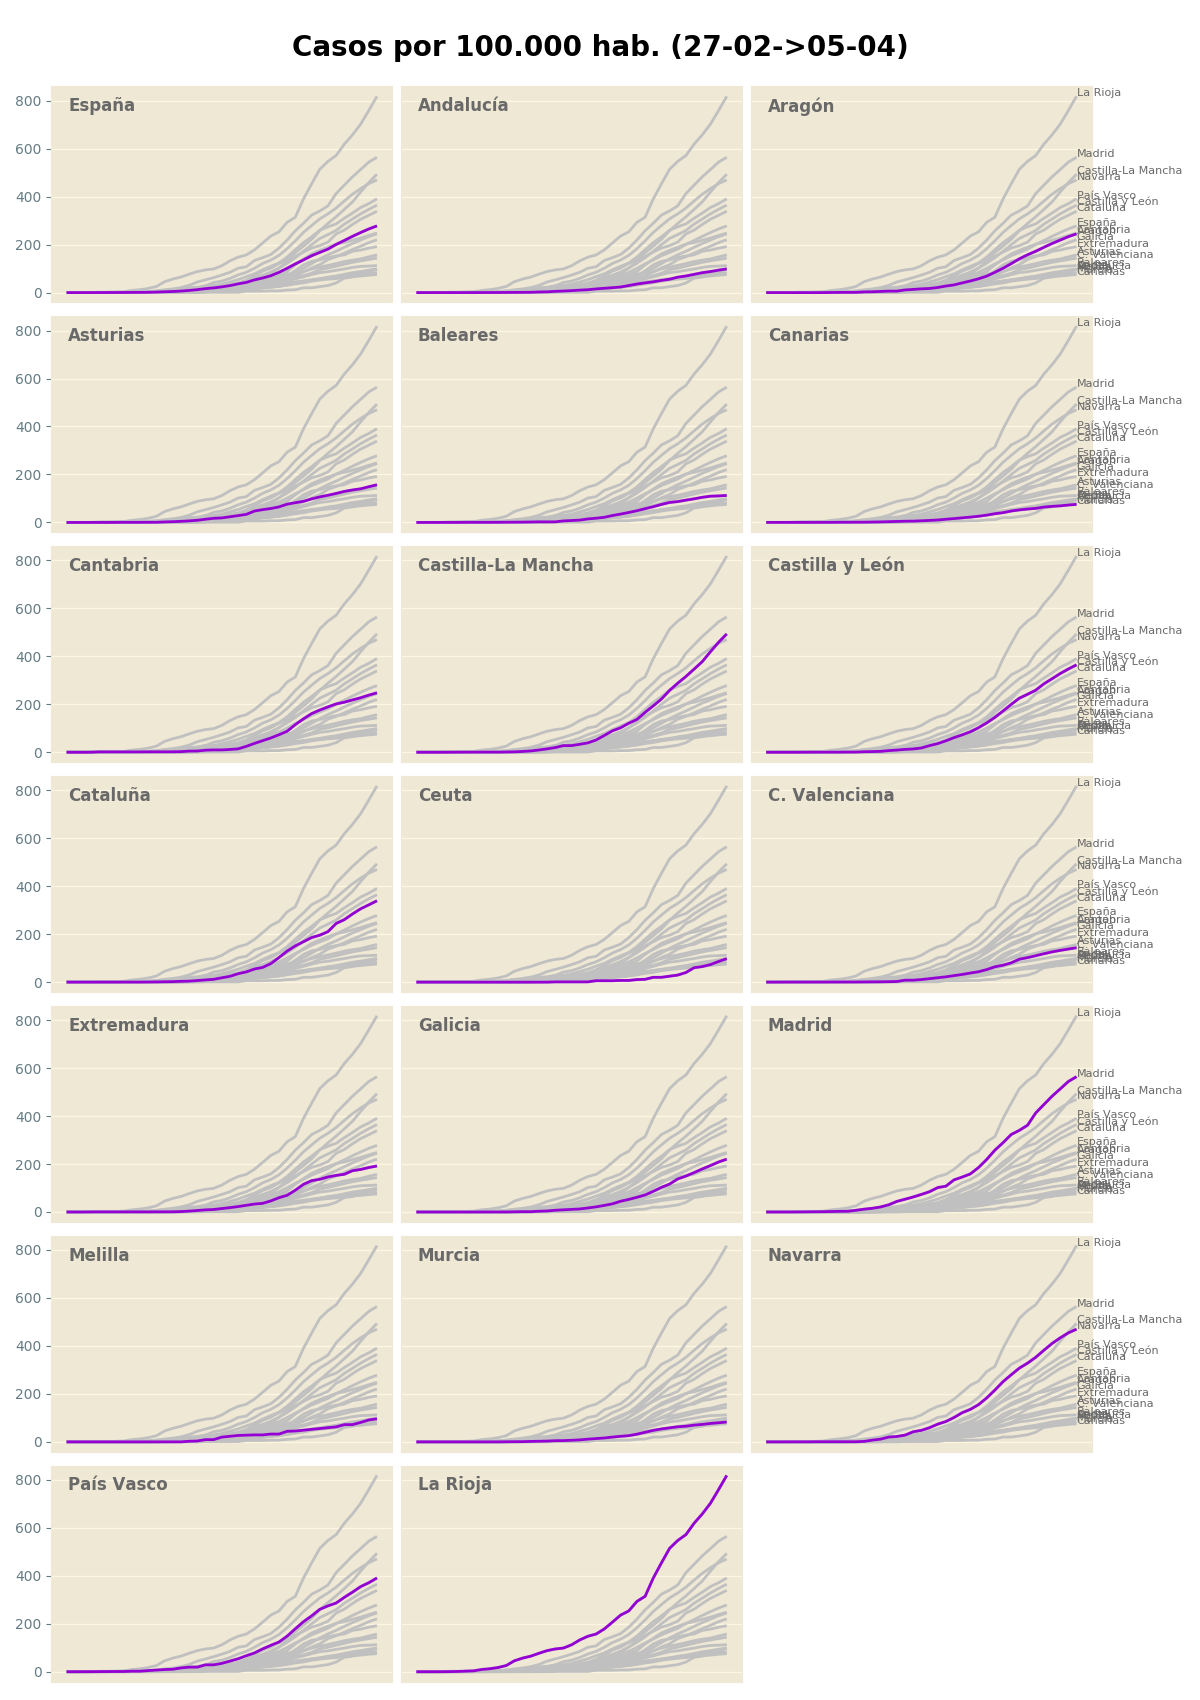
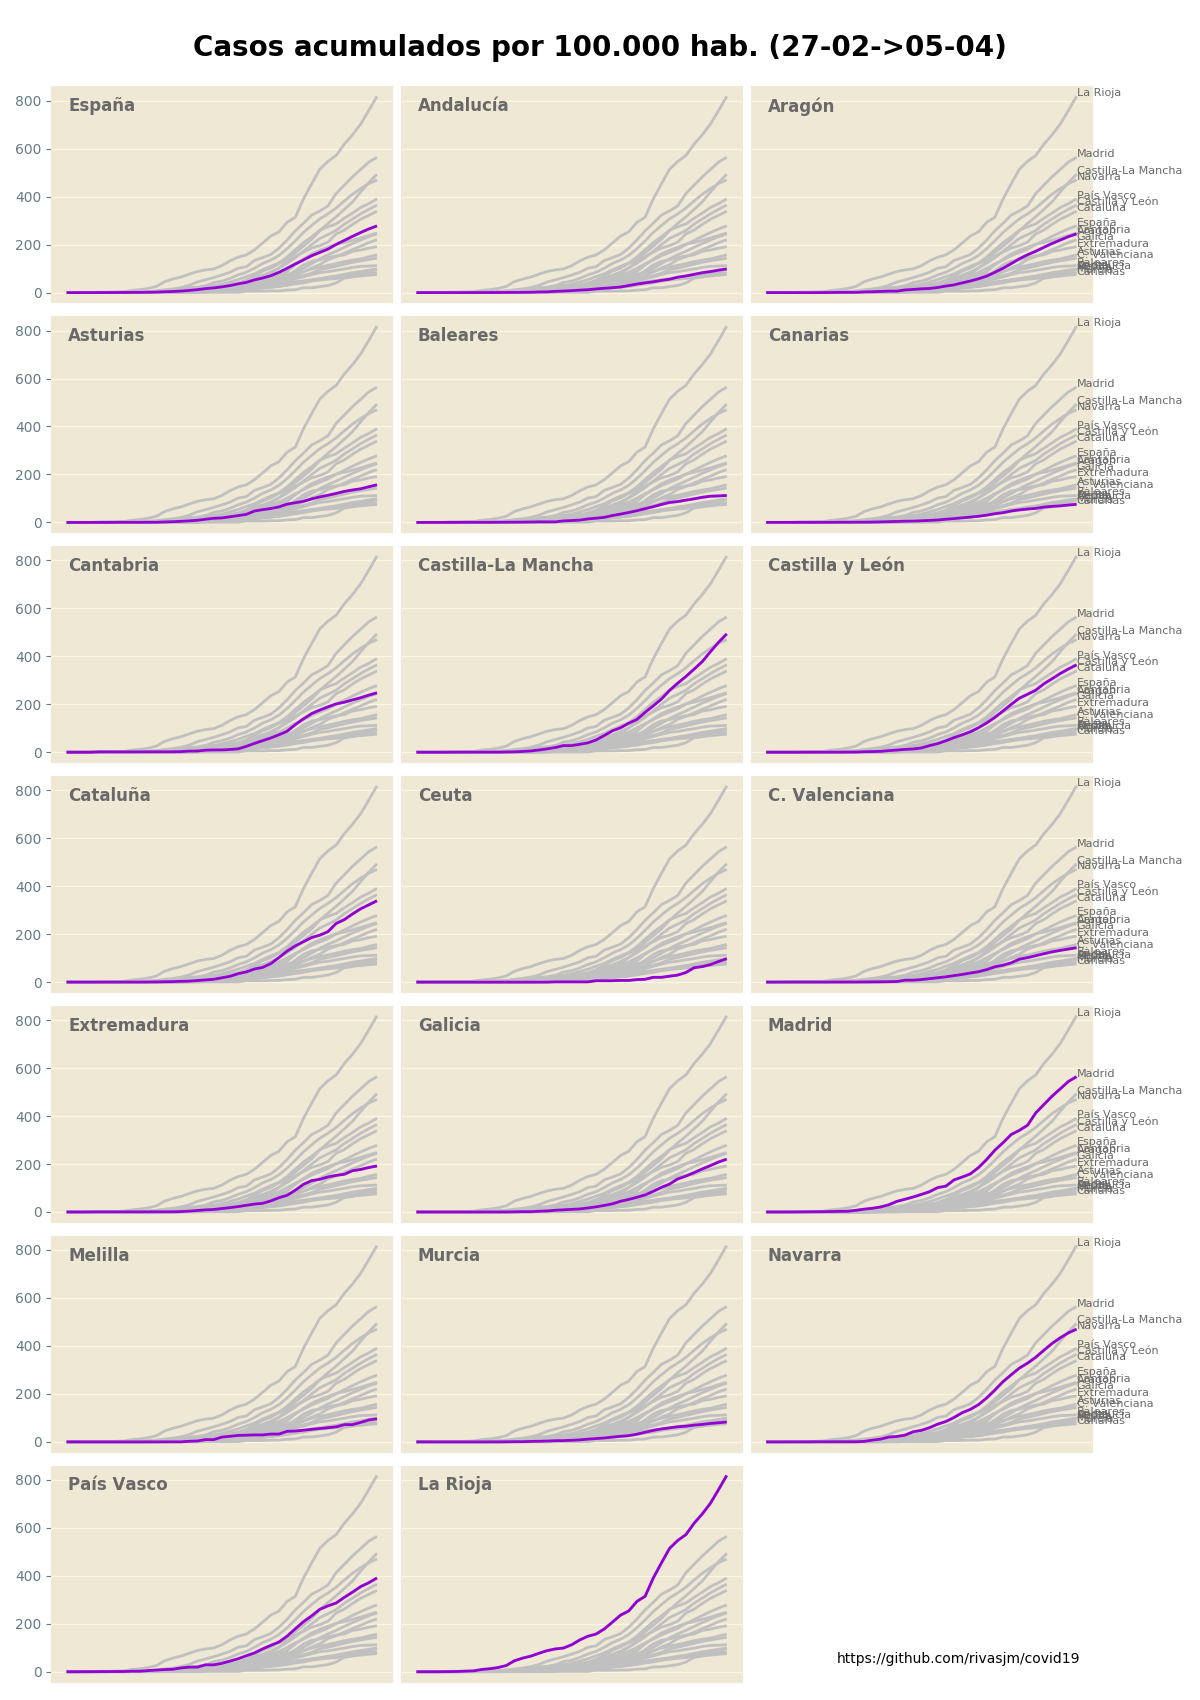
update

Changed region(s): [[0.1542, 0.0, 0.8325, 0.0312], [0.74, 0.9665, 0.7708, 0.9976]]

diff --git a/spain_charts.py b/spain_charts.py
@@ -52,10 +52,12 @@ def grid(data: Data, out_name, rows, cols,
             ax.set_yticklabels([])
             ax.tick_params(axis='y', which='both', length=0)  # hide just the ticks but not the horizontal grid
 
-    title = data.label + (' por 100.000 hab.' if per_capita else '') + (' (diario)' if incremental else '') + \
+    title = data.label + (' diarios' if incremental else ' acumulados') + (' por 100.000 hab.' if per_capita else '')  + \
             ' (' + dates[0] + '->' + dates[-1] + ')' + (' (media 7 dias)' if avg_window > 1 else '')
+
     fig.suptitle(title, fontsize=20, fontweight='bold')
     fig.tight_layout(h_pad=0.5, w_pad=0.1, rect=(0, 0, 1, 0.96))
+    fig.text(0.9, 0.02, 'https://github.com/rivasjm/covid19', va='bottom', ha='right')
     fig.savefig(out_name)
     print('![{}]({})'.format(out_name, out_name))  # ![charts/casos_hab.png](/charts/casos_hab.png)
 
